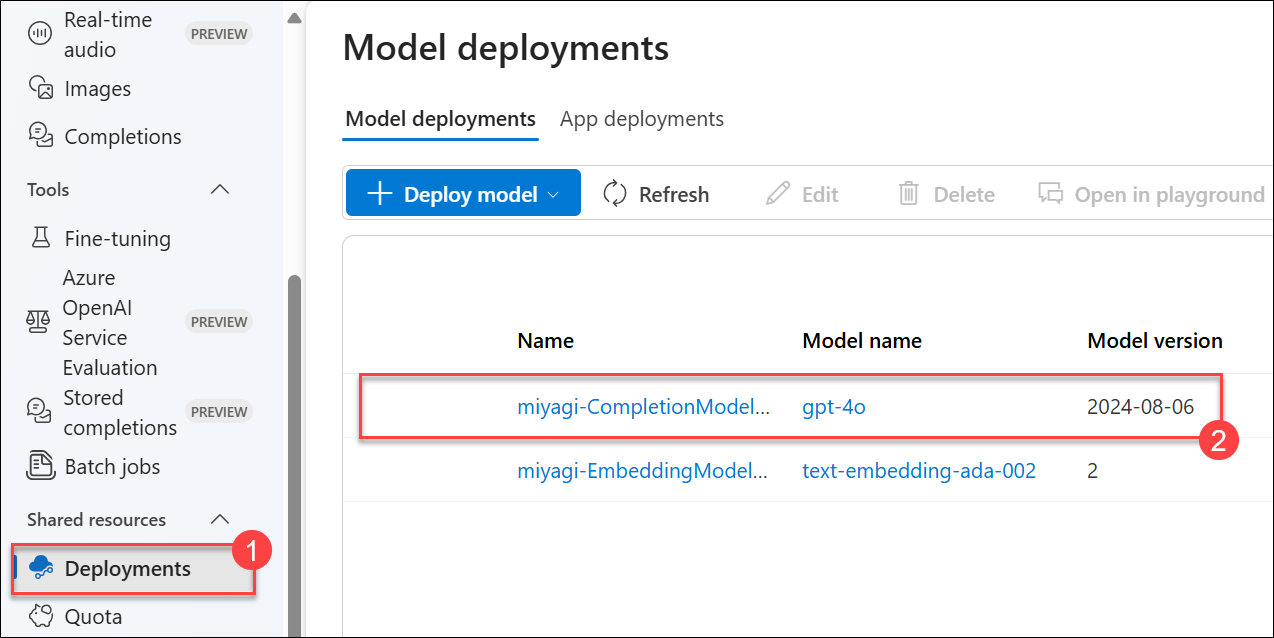
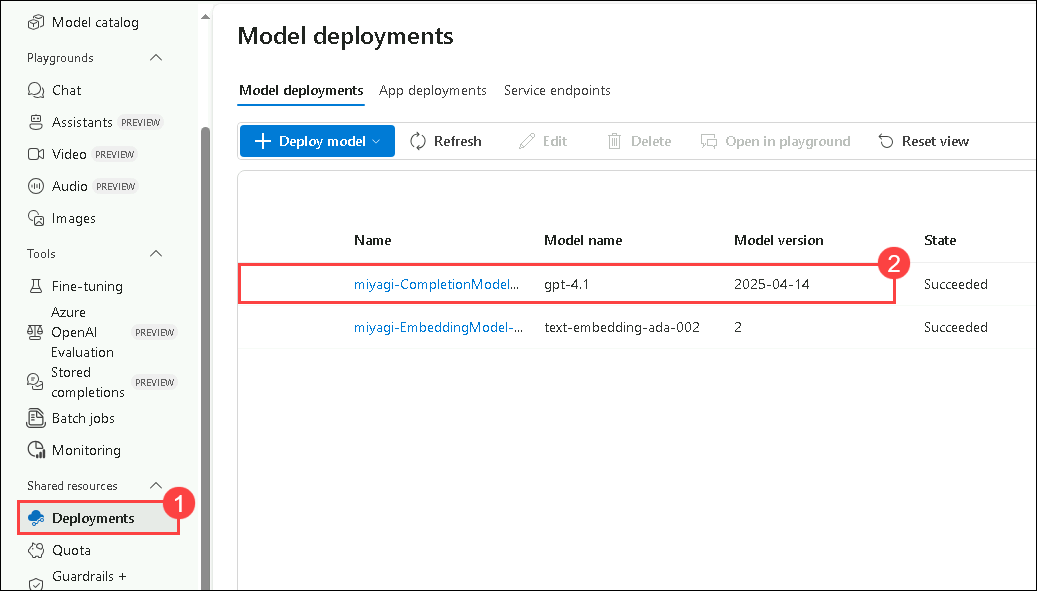
updated

diff --git a/docs/labs/02-build-your-own-copilot/Verify-and-Retrieve.md b/docs/labs/02-build-your-own-copilot/Verify-and-Retrieve.md
@@ -30,7 +30,7 @@ In this lab, you will verify and retrieve specific values such as Endpoint, Conn
 
            ![](./Media/deployments-11.png)
         
-      - In the **Deployments**  **(1)** blade of Azure AI Studio, click on **miyagi-CompletionModel-<inject key="DeploymentID" enableCopy="false"/>** deployment name and verify the **deployment name** of gpt-4o model **(2)**.
+      - In the **Deployments**  **(1)** blade of Azure AI Foundry, click on **miyagi-CompletionModel-<inject key="DeploymentID" enableCopy="false"/>** deployment name and verify the **deployment name** of gpt-4.1 model **(2)**.
 
           ![](./Media/completionmodelnew.png)
         
@@ -38,21 +38,21 @@ In this lab, you will verify and retrieve specific values such as Endpoint, Conn
       
       -  Navigate back to the **Deployment (1)** page.
 
-      - In the Deployments blade of Azure AI Studio, click on **miyagi-EmbeddingModel-<inject key="DeploymentID" enableCopy="false"/>** deployment name and verify the **deployment name** of **text-embedding-ada-002 model (2)**.
+      - In the Deployments blade of Azure AI Foundry, click on **miyagi-EmbeddingModel-<inject key="DeploymentID" enableCopy="false"/>** deployment name and verify the **deployment name** of **text-embedding-ada-002 model (2)**.
         
          ![](./Media/deployments0909.png)
 
          ![](./Media/miyagi-embedded.png)
 
-1. To verify the values for **endpoint** and **apiKey** follow the below steps:
+1. To verify the values for "**endpoint**" and "**apiKey**" follow the below steps:
 
-   -  Navigate back to the tab displaying **Azure portal**. 
+   -  Navigate back to the **Azure portal**. 
 
    -  In the **OpenAIService-<inject key="DeploymentID" enableCopy="false"/>** blade under **Resource Management** section, select **Keys and Endpoint (1)**, verify the **KEY 1 (2)** and **Endpoint (3)**.
      
       ![](./Media/miyagi-image16.png)
 
-1. To verify the values for  "azureCognitiveSearchEndpoint", "azureCognitiveSearchApiKey", follow below steps:
+1. To verify the values for  "**azureCognitiveSearchEndpoint**", "**azureCognitiveSearchApiKey**", follow below steps:
    
    - Navigate back to **miyagi-rg-<inject key="DeploymentID" enableCopy="false"/>** resource group.
 
@@ -74,7 +74,7 @@ In this lab, you will verify and retrieve specific values such as Endpoint, Conn
 
      ![](./Media/miyagi-image113.png)
      
-   - On **cosmos-<inject key="DeploymentID" enableCopy="false"/>** verify the **URL**.
+   - On **cosmos-<inject key="DeploymentID" enableCopy="false"/>** , verify the **URL**.
      
      ![](./Media/miyagi-image114.png)
 
@@ -82,7 +82,7 @@ In this lab, you will verify and retrieve specific values such as Endpoint, Conn
 
      ![](./Media/miyagi-image115.png)
 
-1. To obtain the values for **blobServiceUri**, please follow the steps below:
+1. To obtain the values for "**blobServiceUri**", please follow the steps below:
 
    - Navigative back to resource group **miyagi-rg-<inject key="DeploymentID" enableCopy="false"/>** resource group page, select **miyagiblobstorge<inject key="DeploymentID" enableCopy="false"/>** from resources list.
 

diff --git a/docs/labs/02-build-your-own-copilot/lab1v2.md b/docs/labs/02-build-your-own-copilot/lab1v2.md
@@ -68,7 +68,9 @@ In this task, you will configure the Miyagi application by updating specific set
    
 1. Once after updating the values kindly save the file by pressing **CTRL + S**.
 
-1. Navigate to **miyagi/sandbox/usecases/rag/dotnet** and verify **.env** file is present.
+1. In the **miyagi** folder, expand **sandbox (1)/usecases (2)/rag (3)/dotnet (4)** and verify **.env (5)** file is present.
+
+   ![](./Media/miyagi-image(111).png)
   
 1. In the **.env** file replace the following values for the variables below.
 
